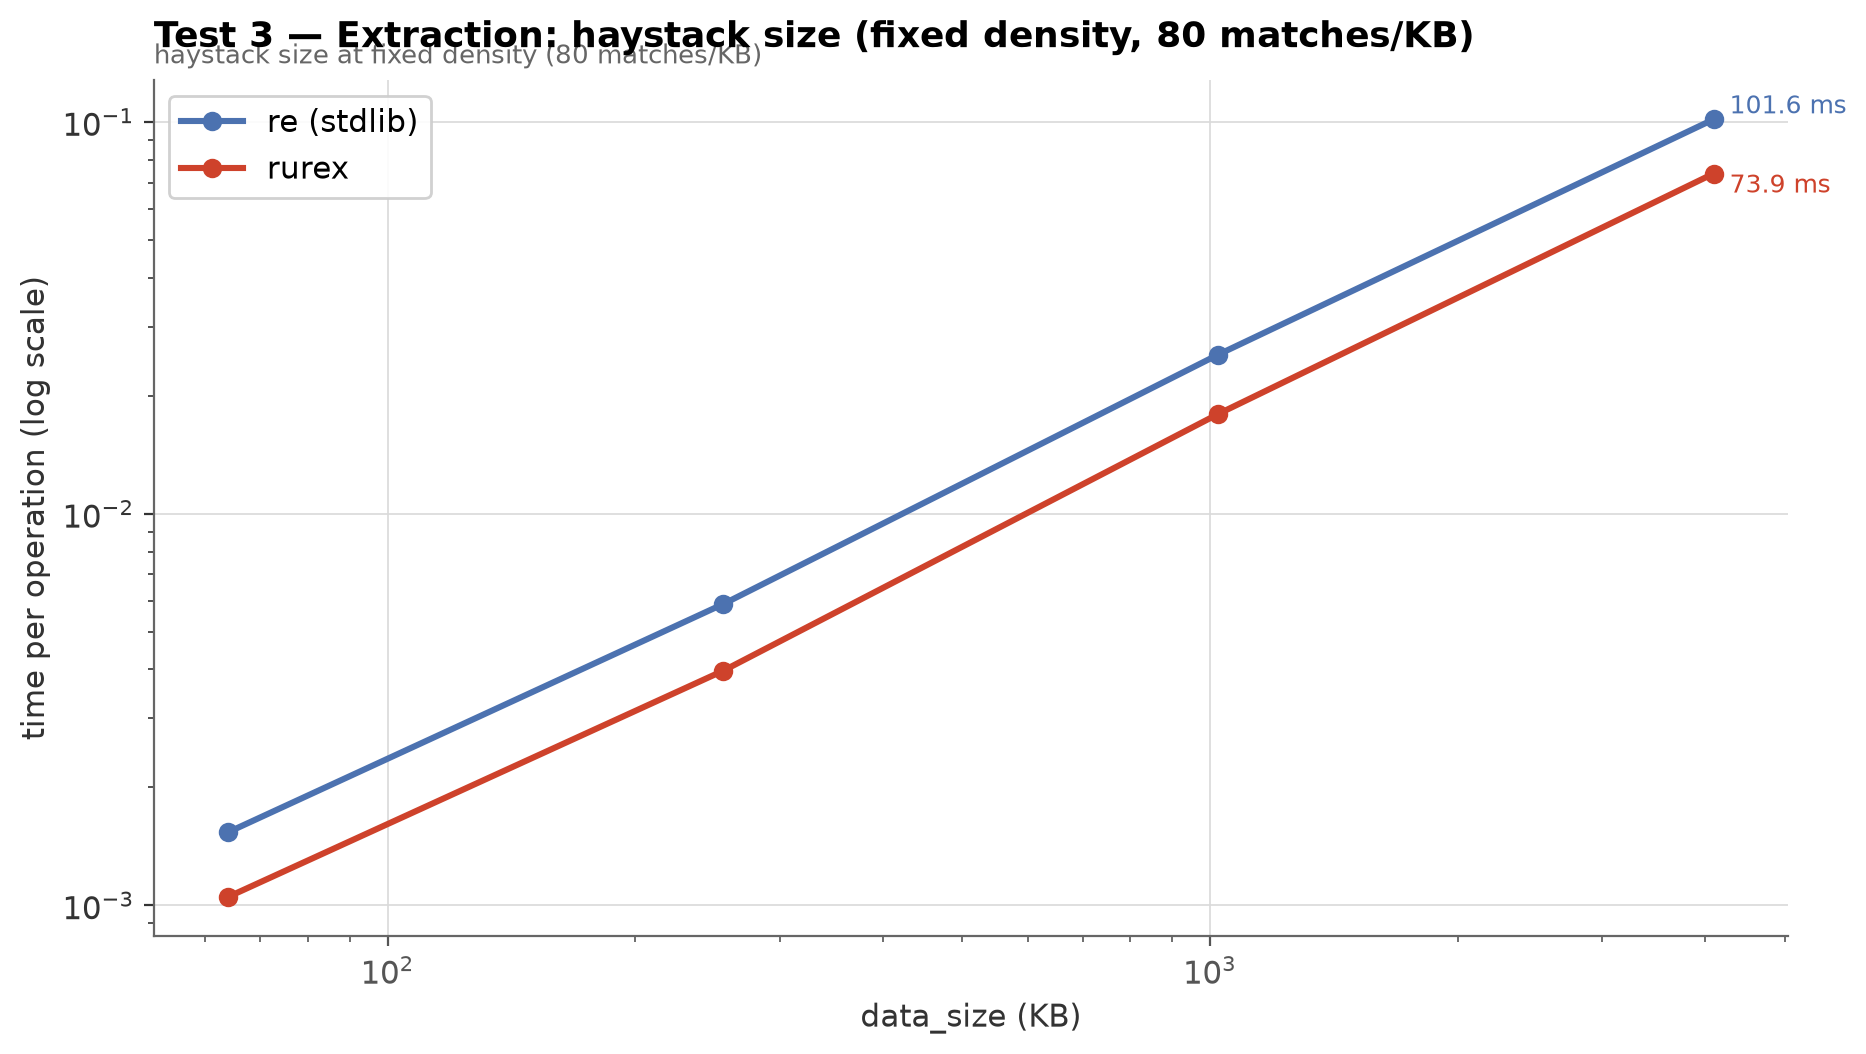
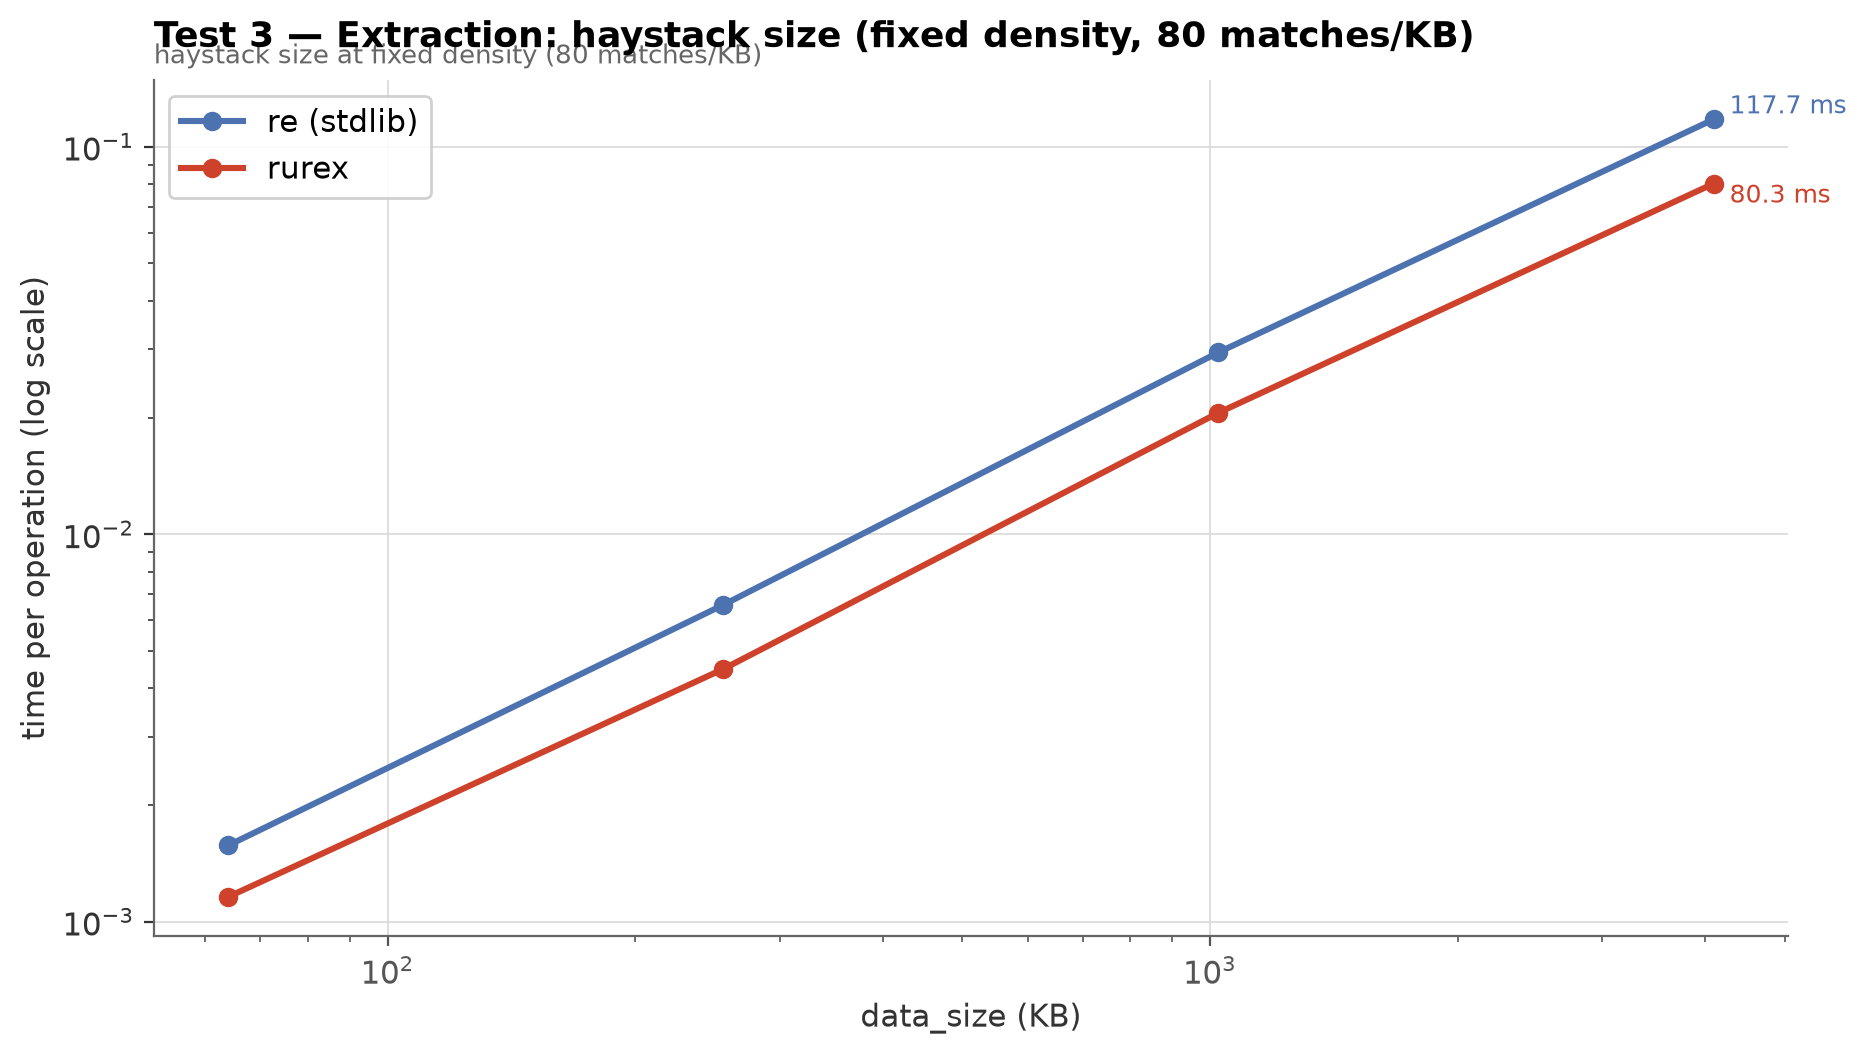
Re-measure benchmarks on the release build
Refresh after the match/Pattern/Scanner compatibility commits: all
ratios hold (both engines drifted a few percent together within
session noise; no rurex-specific regression). Test 1 up to x13.3,
Test 2 needle@0 468 ns vs re 179 ns and x7.3-12.2 elsewhere, Tests
3/4 rurex x1.36-1.47 and parity at the densest, Test 5 flat ~270 ns.

diff --git a/docs/benchmarks.md b/docs/benchmarks.md
@@ -11,15 +11,15 @@ per operation** on Y.
   and both engines scale linearly.
 - **Test 2 — Scan vs needle position:** with the needle in the very
   first bytes both engines answer in well under a microsecond (`re`
-  170 ns, rurex 436 ns); from a quarter of the text onward rurex is
-  ×7.6–12.9 faster.
+  179 ns, rurex 468 ns); from a quarter of the text onward rurex is
+  ×7.3–12.2 faster.
 - **Test 3 — Extraction vs haystack size:** rurex ahead ~×1.4 at
   match-dense fixed density.
 - **Test 4 — Extraction vs match density:** rurex ahead at every
-  measured density — ×6.2 when matches are sparse, narrowing to
-  parity (×1.05) at the densest.
+  measured density — ×6.8 when matches are sparse, narrowing to
+  parity (×1.04) at the densest.
 - **Test 5 — Pathological:** `re` never finishes; rurex answers in
-  **~250 ns** at any size.
+  **~270 ns** at any size.
 
 A standalone HTML twin of this page (images embedded) can be rendered
 locally for browser viewing: `python benchmarks/make_charts.py --html`
@@ -84,11 +84,11 @@ amet node lazy fox alpha the the-needle-string …
 
 | Size | `re` | rurex | Speedup |
 |---:|---:|---:|---:|
-| 64 KB | 77 µs | 5.8 µs | rurex ×13.2 |
-| 256 KB | 309 µs | 24 µs | rurex ×13.1 |
-| 1 MB | 1.24 ms | 93 µs | rurex ×13.3 |
-| 4 MB | 4.99 ms | 448 µs | rurex ×11.1 |
-| 16 MB | 20.2 ms | 3.14 ms | rurex ×6.4 |
+| 64 KB | 83 µs | 6.2 µs | rurex ×13.3 |
+| 256 KB | 329 µs | 25 µs | rurex ×13.2 |
+| 1 MB | 1.35 ms | 103 µs | rurex ×13.2 |
+| 4 MB | 5.47 ms | 523 µs | rurex ×10.5 |
+| 16 MB | 21.3 ms | 3.19 ms | rurex ×6.7 |
 
 Both engines scale linearly; rurex' constant is several times smaller.
 The advantage narrows at 16 MB as scanning becomes memory-bound — the
@@ -120,16 +120,16 @@ from the first bytes (0%) to the very end (100%). Position 0% favors
 
 | Needle at | `re` | rurex | Speedup |
 |---:|---:|---:|---:|
-| 0% | 170 ns | 436 ns | `re` ×2.6 |
-| 25% | 2.49 ms | 193 µs | rurex ×12.9 |
-| 50% | 4.98 ms | 417 µs | rurex ×12.0 |
-| 75% | 7.53 ms | 806 µs | rurex ×9.3 |
-| 100% | 10.1 ms | 1.33 ms | rurex ×7.6 |
+| 0% | 179 ns | 468 ns | `re` ×2.6 |
+| 25% | 2.63 ms | 216 µs | rurex ×12.2 |
+| 50% | 5.33 ms | 506 µs | rurex ×10.5 |
+| 75% | 8.10 ms | 990 µs | rurex ×8.2 |
+| 100% | 10.6 ms | 1.45 ms | rurex ×7.3 |
 
 The closest point of the race is a needle in the very first bytes:
 `re`'s fast path answers in 170 ns and rurex in 436 ns — both well
 under a microsecond, both invisible to any real workload. Past the
-first quarter of the text, rurex' scan speed dominates by ×7.6–12.9.
+first quarter of the text, rurex' scan speed dominates by ×7.3–12.2.
 (An earlier build showed a ~0.7 ms floor here — every `search` call
 was counting the characters of the whole haystack to fill
 `Match.endpos` even when the match sat in the first bytes; `endpos` is
@@ -161,10 +161,10 @@ alpha word value value node al …
 
 | Size | `re` | rurex | Speedup |
 |---:|---:|---:|---:|
-| 64 KB | 1.54 ms | 1.05 ms | rurex ×1.46 |
-| 256 KB | 5.88 ms | 3.97 ms | rurex ×1.48 |
-| 1 MB | 25.5 ms | 18.0 ms | rurex ×1.42 |
-| 4 MB | 101.6 ms | 73.9 ms | rurex ×1.38 |
+| 64 KB | 1.57 ms | 1.16 ms | rurex ×1.36 |
+| 256 KB | 6.57 ms | 4.49 ms | rurex ×1.46 |
+| 1 MB | 29.5 ms | 20.6 ms | rurex ×1.43 |
+| 4 MB | 117.7 ms | 80.3 ms | rurex ×1.47 |
 
 At this density rurex is steadily ~×1.4 ahead: `findall` builds only
 the returned values (strings, or one string per group) in one pass —
@@ -195,15 +195,15 @@ r"\d{3,4}"
 
 | Density | `re` | rurex | Speedup |
 |---:|---:|---:|---:|
-| 5 /KB | 16.4 ms | 2.64 ms | rurex ×6.2 |
-| 20 /KB | 17.9 ms | 5.34 ms | rurex ×3.4 |
-| 80 /KB | 25.8 ms | 18.7 ms | rurex ×1.4 |
-| 160 /KB | 35.1 ms | 33.6 ms | rurex ×1.05 |
+| 5 /KB | 19.4 ms | 2.84 ms | rurex ×6.8 |
+| 20 /KB | 19.8 ms | 5.88 ms | rurex ×3.4 |
+| 80 /KB | 28.8 ms | 21.1 ms | rurex ×1.4 |
+| 160 /KB | 38.0 ms | 36.5 ms | rurex ×1.04 |
 
-With sparse matches, scanning dominates and rurex is up to 6.2×
+With sparse matches, scanning dominates and rurex is up to 6.8×
 faster; as matches multiply, the per-match cost of building the
 returned values takes over and `re` closes the gap — at the densest
-measured point the two engines are effectively even (×1.05).
+measured point the two engines are effectively even (×1.04).
 
 ---
 
@@ -233,16 +233,16 @@ xxxxxxxxxxxxxxxxxxxxxxxx    (n = 24 of the sweep; no y — nothing matches)
 
 | n | `re` | rurex |
 |---:|---:|---:|
-| 8 | 21.5 µs | 233 ns |
-| 12 | 236 µs | 239 ns |
-| 16 | 3.75 ms | 243 ns |
-| 20 | 59.8 ms | 245 ns |
-| 24 | 975 ms | 253 ns |
-| 26 | *≥ 2 s — still running at the timeout* | 260 ns |
-| 28 | — | 262 ns |
+| 8 | 30.6 µs | 263 ns |
+| 12 | 262 µs | 265 ns |
+| 16 | 4.22 ms | 272 ns |
+| 20 | 64.5 ms | 267 ns |
+| 24 | 1.06 s | 288 ns |
+| 26 | *≥ 2 s — still running at the timeout* | 287 ns |
+| 28 | — | 285 ns |
 
 Extrapolating `re`'s doubling curve, n=40 would take longer than the
-age of the universe. rurex answers every input in a quarter of a
+age of the universe. rurex answers every input in well under half of a
 microsecond, and would keep doing so at n=40, n=400, n=4 million.
 
 ---
